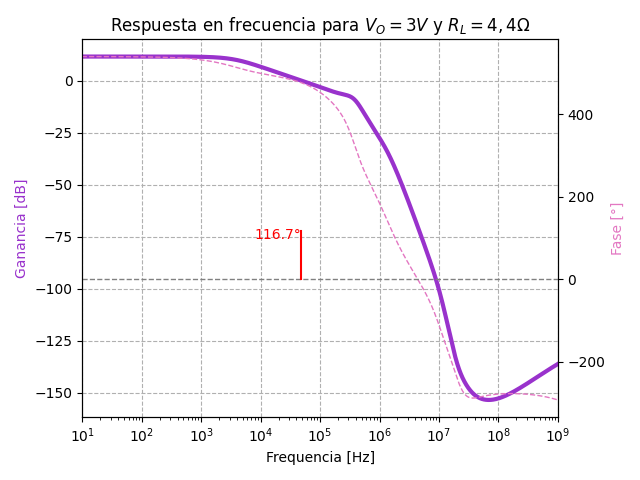
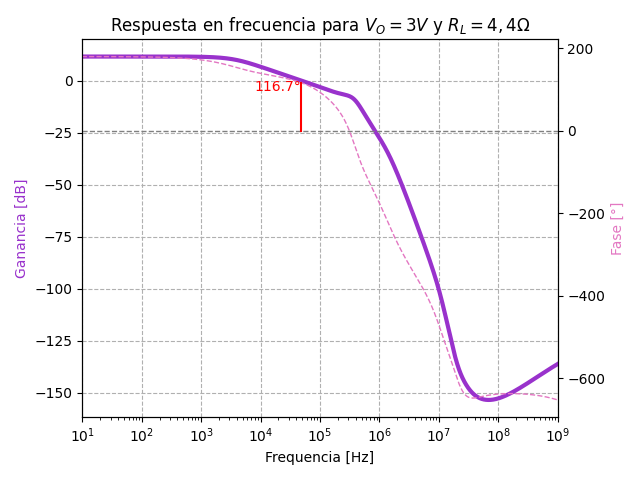
arregla los grafiquitos de los bodes

diff --git a/python/Transferencias.py b/python/Transferencias.py
@@ -27,7 +27,7 @@ def graficarTransferencia(nombreArchivo, titulo,nombreImagen,corregirFase):
 
     if corregirFase:
         fase =np.degrees(np.unwrap(np.radians(fase)))
-    if np.min(fase)<-300:
+    if np.min(fase)<-300 and np.max(fase)<=-170:
         fase +=360
 
 
@@ -67,53 +67,53 @@ def graficarTransferencia(nombreArchivo, titulo,nombreImagen,corregirFase):
     plt.tight_layout()
     plt.savefig(nombreImagen)
 
-# # para 5V
-# titulo = 'Respuesta en frecuencia para $V_O = 5V$ y $R_L= 10 \Omega$'
-# nombreImagen='graficos/TransferenciaLazoTensionSinCompensar5_RL10.png'
-# graficarTransferencia('resources/Sin-compensar/Vf5-Rl10.txt',titulo,nombreImagen,False)
-#
-# titulo = 'Respuesta en frecuencia para $V_O = 5V$ y $R_L= 6,8 \Omega$'
-# nombreImagen='graficos/TransferenciaLazoCorrienteSinCompensar5_RL-68.png'
-# graficarTransferencia('resources/Sin-compensar/Vf5-Rl68.txt',titulo,nombreImagen,False)
-#
-# titulo = 'Respuesta en frecuencia para $V_O = 5V$ y $R_L= 8 \Omega$'
-# nombreImagen='graficos/TransferenciaLazoTensionSinCompensar5_RL-8.png'
-# graficarTransferencia('resources/Sin-compensar/Vf5-Rl8.txt',titulo,nombreImagen,False)
-#
-# # para 3.3V
-# titulo = 'Respuesta en frecuencia para $V_O = 3.3V$ y $R_L= 10 \Omega$'
-# nombreImagen='graficos/TransferenciaLazoTensionSinCompensar3_RL10.png'
-# graficarTransferencia('resources/Sin-compensar/Vf3-Rl10.txt',titulo,nombreImagen,False)
-#
-# titulo = 'Respuesta en frecuencia para $V_O = 3.3V$ y $R_L= 6 \Omega$'
-# nombreImagen='graficos/TransferenciaLazoCorrienteSinCompensar3_RL-6.png'
-# graficarTransferencia('resources/Sin-compensar/Vf3-Rl6.txt',titulo,nombreImagen,False)
-#
-# titulo = 'Respuesta en frecuencia para $V_O = 3.3V$ y $R_L= 4,4 \Omega$'
-# nombreImagen='graficos/TransferenciaLazoTensionSinCompensar3_RL-44.png'
-# graficarTransferencia('resources/Sin-compensar/Vf3-Rl44.txt',titulo,nombreImagen,False)
-#
-#
-# # Compensado
-# titulo = 'Respuesta en frecuencia para $V_O = 5V$ y $R_L= 10 \Omega$'
-# nombreImagen='graficos/TransferenciaLazoTensionCompensado5_RL-10.png'
-# graficarTransferencia('resources/Compensado/Vf5-Rl10.txt',titulo,nombreImagen,True)
-# #
-# #
-# titulo = 'Respuesta en frecuencia para $V_O = 3V$ y $R_L= 10 \Omega$'
-# nombreImagen='graficos/TransferenciaLazoTensionCompensado3_RL-10.png'
-# graficarTransferencia('resources/Compensado/Vf3-Rl10.txt',titulo,nombreImagen,True)
+# para 5V
+titulo = 'Respuesta en frecuencia para $V_O = 5V$ y $R_L= 10 \Omega$'
+nombreImagen='graficos/TransferenciaLazoTensionSinCompensar5_RL10.png'
+graficarTransferencia('resources/Sin-compensar/Vf5-Rl10.txt',titulo,nombreImagen,False)
+
+titulo = 'Respuesta en frecuencia para $V_O = 5V$ y $R_L= 6,8 \Omega$'
+nombreImagen='graficos/TransferenciaLazoCorrienteSinCompensar5_RL-68.png'
+graficarTransferencia('resources/Sin-compensar/Vf5-Rl68.txt',titulo,nombreImagen,False)
+
+titulo = 'Respuesta en frecuencia para $V_O = 5V$ y $R_L= 8 \Omega$'
+nombreImagen='graficos/TransferenciaLazoTensionSinCompensar5_RL-8.png'
+graficarTransferencia('resources/Sin-compensar/Vf5-Rl8.txt',titulo,nombreImagen,False)
+
+# para 3.3V
+titulo = 'Respuesta en frecuencia para $V_O = 3.3V$ y $R_L= 10 \Omega$'
+nombreImagen='graficos/TransferenciaLazoTensionSinCompensar3_RL10.png'
+graficarTransferencia('resources/Sin-compensar/Vf3-Rl10.txt',titulo,nombreImagen,False)
+
+titulo = 'Respuesta en frecuencia para $V_O = 3.3V$ y $R_L= 6 \Omega$'
+nombreImagen='graficos/TransferenciaLazoCorrienteSinCompensar3_RL-6.png'
+graficarTransferencia('resources/Sin-compensar/Vf3-Rl6.txt',titulo,nombreImagen,False)
+
+titulo = 'Respuesta en frecuencia para $V_O = 3.3V$ y $R_L= 4,4 \Omega$'
+nombreImagen='graficos/TransferenciaLazoTensionSinCompensar3_RL-44.png'
+graficarTransferencia('resources/Sin-compensar/Vf3-Rl44.txt',titulo,nombreImagen,False)
+
+
+# Compensado
+titulo = 'Respuesta en frecuencia para $V_O = 5V$ y $R_L= 10 \Omega$'
+nombreImagen='graficos/TransferenciaLazoTensionCompensado5_RL-10.png'
+graficarTransferencia('resources/Compensado/Vf5-Rl10.txt',titulo,nombreImagen,True)
 #
 #
-# titulo = 'Respuesta en frecuencia para $V_O = 5V$ y $R_L= 6,8 \Omega$'
-# nombreImagen='graficos/TransferenciaLazoCorrienteCompensado5.png'
-# graficarTransferencia('resources/Compensado/Vlc-Rl66.txt',titulo,nombreImagen, True)
-#
-#
-# titulo = 'Respuesta en frecuencia para $V_O = 3V$ y $R_L= 4,4 \Omega$'
-# nombreImagen='graficos/TransferenciaLazoCorrienteCompensado3.png'
-# graficarTransferencia('resources/Compensado/Vlc-Rl425.txt',titulo,nombreImagen, True)
-#
+titulo = 'Respuesta en frecuencia para $V_O = 3V$ y $R_L= 10 \Omega$'
+nombreImagen='graficos/TransferenciaLazoTensionCompensado3_RL-10.png'
+graficarTransferencia('resources/Compensado/Vf3-Rl10.txt',titulo,nombreImagen,True)
+
+
+titulo = 'Respuesta en frecuencia para $V_O = 5V$ y $R_L= 6,8 \Omega$'
+nombreImagen='graficos/TransferenciaLazoCorrienteCompensado5.png'
+graficarTransferencia('resources/Compensado/Vlc-Rl66.txt',titulo,nombreImagen, True)
+
+
+titulo = 'Respuesta en frecuencia para $V_O = 3V$ y $R_L= 4,4 \Omega$'
+nombreImagen='graficos/TransferenciaLazoCorrienteCompensado3.png'
+graficarTransferencia('resources/Compensado/Vlc-Rl425.txt',titulo,nombreImagen, True)
+
 
 
 
